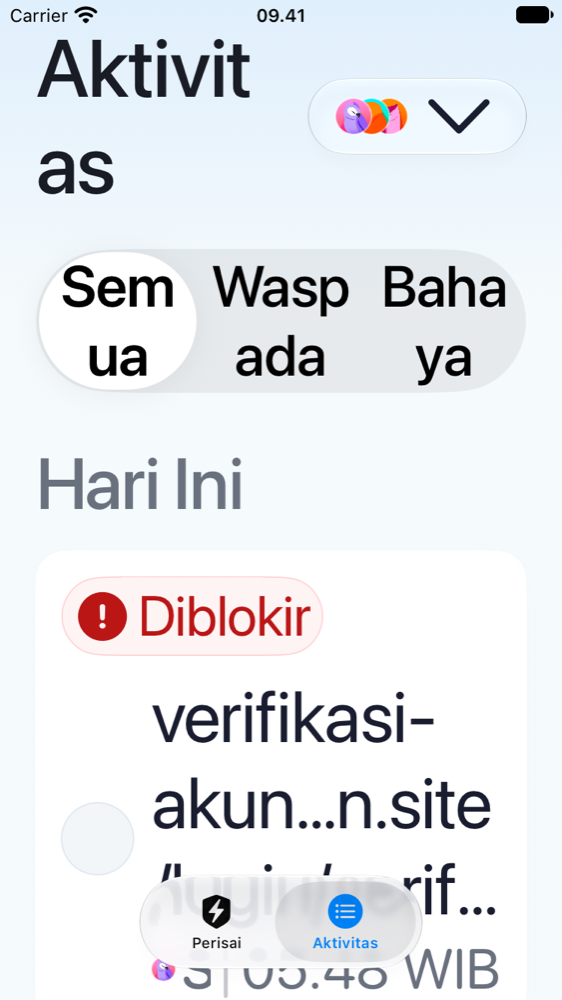
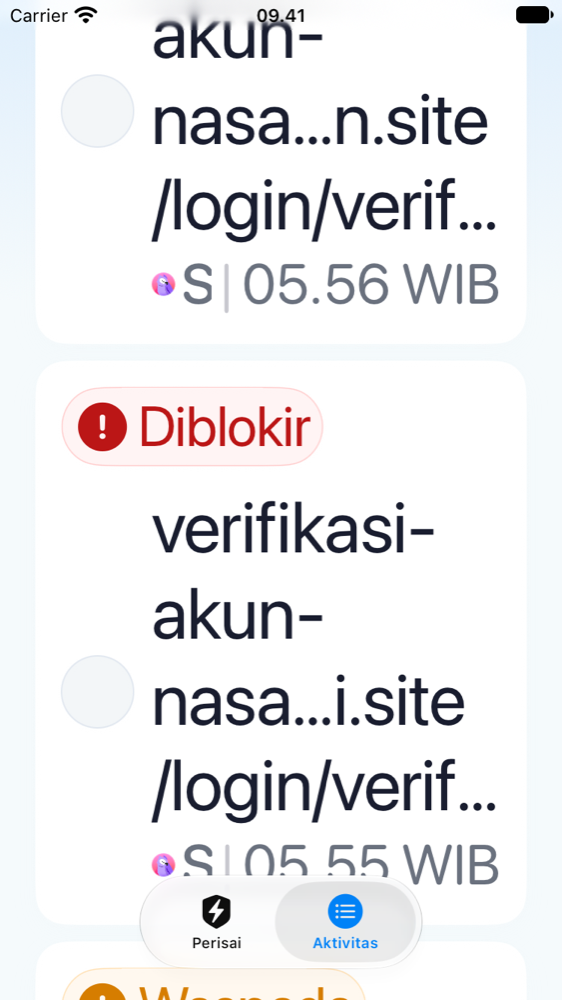
fix(GD-05): review fixes for the row title split (U-05)
Swift review: the domain keeps three lines at accessibility sizes when a
path follows, more titleParts cases (no path, percent-encoded path), and
the comments say what the cut keeps: the public suffix, not a part the
scammer cannot choose. AX5 screenshot retaken.

diff --git a/ios/ShooApp/Features/Activity/ActivityView.swift b/ios/ShooApp/Features/Activity/ActivityView.swift
@@ -545,8 +545,9 @@ struct ActivityRow: View {
         .frame(maxWidth: .infinity, alignment: .leading)
     }
 
-    /// U-05 (K8): the end of the domain (its registrable suffix) is the part a scammer cannot choose, so the
-    /// domain is never cut at its tail: whole, or cut in the middle as on the Home card. The path only gets the
+    /// U-05 (K8): the start of the domain is free text the scammer picks ("bca-verifikasi-…"); its end holds the
+    /// public suffix (".site"), which no fake can make read as the bank's own. So the domain is never cut at its
+    /// tail: whole, or cut in the middle as on the Home card. The path only gets the
     /// room the whole domain leaves (at least `pathRoom`), cut at its tail; with less, the row shows the domain
     /// alone rather than a "…" right after it that reads as more domain.
     @ViewBuilder
@@ -556,9 +557,9 @@ struct ActivityRow: View {
         if parts.path.isEmpty {
             domain.lineLimit(dynamicTypeSize.isAccessibilitySize ? 3 : 1)
         } else if dynamicTypeSize.isAccessibilitySize {
-            // Large text wraps: the domain on up to two lines, the path on its own line under it.
+            // Large text wraps: the domain on up to three lines (as without a path), the path on its own line under it.
             VStack(alignment: .leading, spacing: 0) {
-                domain.lineLimit(2)
+                domain.lineLimit(3)
                 Text(verbatim: parts.path).lineLimit(1).truncationMode(.tail)
             }
         } else {

diff --git a/ios/ShooApp/Tests/ActivityModelTests.swift b/ios/ShooApp/Tests/ActivityModelTests.swift
@@ -358,6 +358,13 @@ struct ActivityModelTests {
         let root = ActivityRow.titleParts(url: try #require(URL(string: "https://\(domain)/")), domain: domain)
         #expect(root.domain == domain)
         #expect(root.path.isEmpty)
+        let bare = ActivityRow.titleParts(url: try #require(URL(string: "https://\(domain)")), domain: domain)
+        #expect(bare.domain == domain)
+        #expect(bare.path.isEmpty)
+        // The path stays percent-encoded (BH-36), apart from the domain.
+        let encoded = ActivityRow.titleParts(url: try #require(URL(string: "https://x.site/%E2%80%AEdi.oc")), domain: "x.site")
+        #expect(encoded.domain == "x.site")
+        #expect(encoded.path == "/%E2%80%AEdi.oc")
     }
 
     @Test func ownListKeepsTheGuardiansRows() async {

diff --git a/ios/ShooApp/Features/Profile/MemberDetailView.swift b/ios/ShooApp/Features/Profile/MemberDetailView.swift
@@ -254,7 +254,8 @@ struct MemberDetailView: View {
         HStack(spacing: 12) {
             ProfileIcon(symbol: "globe")
             VStack(alignment: .leading, spacing: 1) {
-                // U-05 (K8): cut in the middle, so the end of the domain (the part a scammer cannot choose) shows.
+                // U-05 (K8): cut in the middle, so the end of the domain (its public suffix, which a scammer cannot
+                // make read as the bank's) always shows, not only the start they picked.
                 Text(verbatim: scan.domain)
                     .profileFont(17, tracking: -0.17)
                     .foregroundStyle(ProfileStyle.ink)
